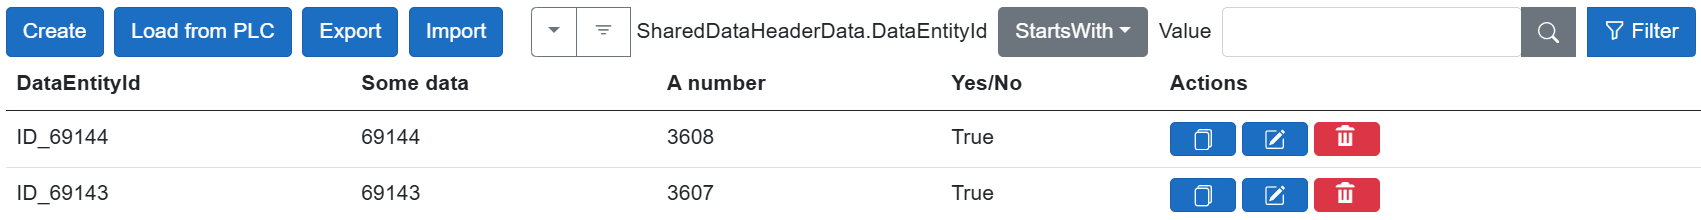
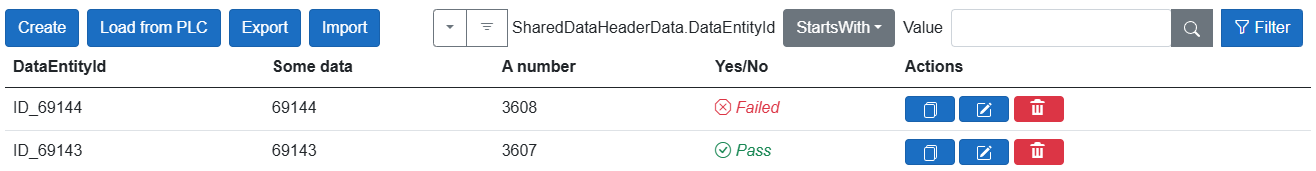
docu

diff --git a/src/data/docs/COLUMNS.md b/src/data/docs/COLUMNS.md
@@ -1,6 +1,13 @@
-# Custom columns
+# Custom Columns
 
-There is a possibility to add custom columns if it is needed. You must add `AXOpen.Data.ColumnData` view as a child in `DataView`. The `BindingValue` must be set in `ColumnData` and contains a string representing the attribute name of custom columns. If you want to add a custom header name, you can set the name in `HeaderName` attribute. Also, there is an attribute to make the column not clickable, which is clickable by default. The example using all attributes:
+It is possible to add custom columns if needed. Add an `AXOpen.Data.ColumnData` view as a child of the `DataView`.
+
+- `BindingValue` (required): A string representing the member path in the POCO object.
+- `HeaderName`: Sets the column header text. The default value is equal to `BindingValue`.
+- `PresentationTemplate`: The type of presentation template used to display the value. Template must inherits from AXOpen.Data.ColumnDataCellBase. It will be populated with the POCO value. By default, the value is presented as a string.
+- `Clickable`: Determines whether the column is clickable. The default is **clickable**.
+
+---
 
 [!code-smalltalk[](../app/ix-blazor/librarytemplate.blazor/Pages/Rendering.razor?name=CustomColumns)]
 
@@ -15,3 +22,7 @@ When adding data view manually, you will need to create ViewModel:
 
 > [!NOTE]
 > In `AxoDataFragmentExchange`, `Custom columns` can only be added from master fragment (the first declared repository).
+
+
+
+[!include[](ColumnCellTemplate.md)]

diff --git a/src/data/docs/DistributedDataExchange_ColumnData.md b/src/data/docs/DistributedDataExchange_ColumnData.md
@@ -22,15 +22,6 @@ As shown in the example below, you can also specify a custom template for each c
 
 [!code-csharp[ConfigurationOfColumnService](../app/ix-blazor/librarytemplate.blazor/Program.cs?name=AxoDataExchangeConfigurationService)]
 
-> [!IMPORTANT]  
-> Column templates receive the value via the `PropertyValue` parameter, which is of type `object`.  
-> To safely work with the expected type, cast the value inside the component’s `OnParametersSet()` method.
 
----
+[!include[](ColumnCellTemplate.md)]
 
-### 🎨 Custom Column Template
-
-When creating column configurations, you can assign a custom Razor component to render a specific column.  
-The component will receive the property value of the POCO and display it as needed:
-
-[!code-csharp[ColumnRazorTemplate](../app/ix-blazor/librarytemplate.blazor/Templates/CustomBoolTemplate.razor)]

diff --git a/src/data/docs/ColumnCellTemplate.md b/src/data/docs/ColumnCellTemplate.md
@@ -1,0 +1,16 @@
+## Column cell template (Blazor)
+
+When creating column configurations, you can assign a custom Razor template to render a specific value.  
+The template will receive the property value of the POCO and display it as needed.
+
+Customn template must inherits from `AXOpen.Data.ColumnDataCellBase`.
+
+> [!IMPORTANT]  
+> Column cell template receive the value via the `PropertyValue` parameter, which is of type `object`.  
+> To safely work with the expected type, cast the value inside the component’s `OnParametersSet()` method.
+
+---
+
+### 🎨 Template example
+
+[!code-csharp[ColumnRazorTemplate](../app/ix-blazor/librarytemplate.blazor/Templates/CustomBoolTemplate.razor)]
